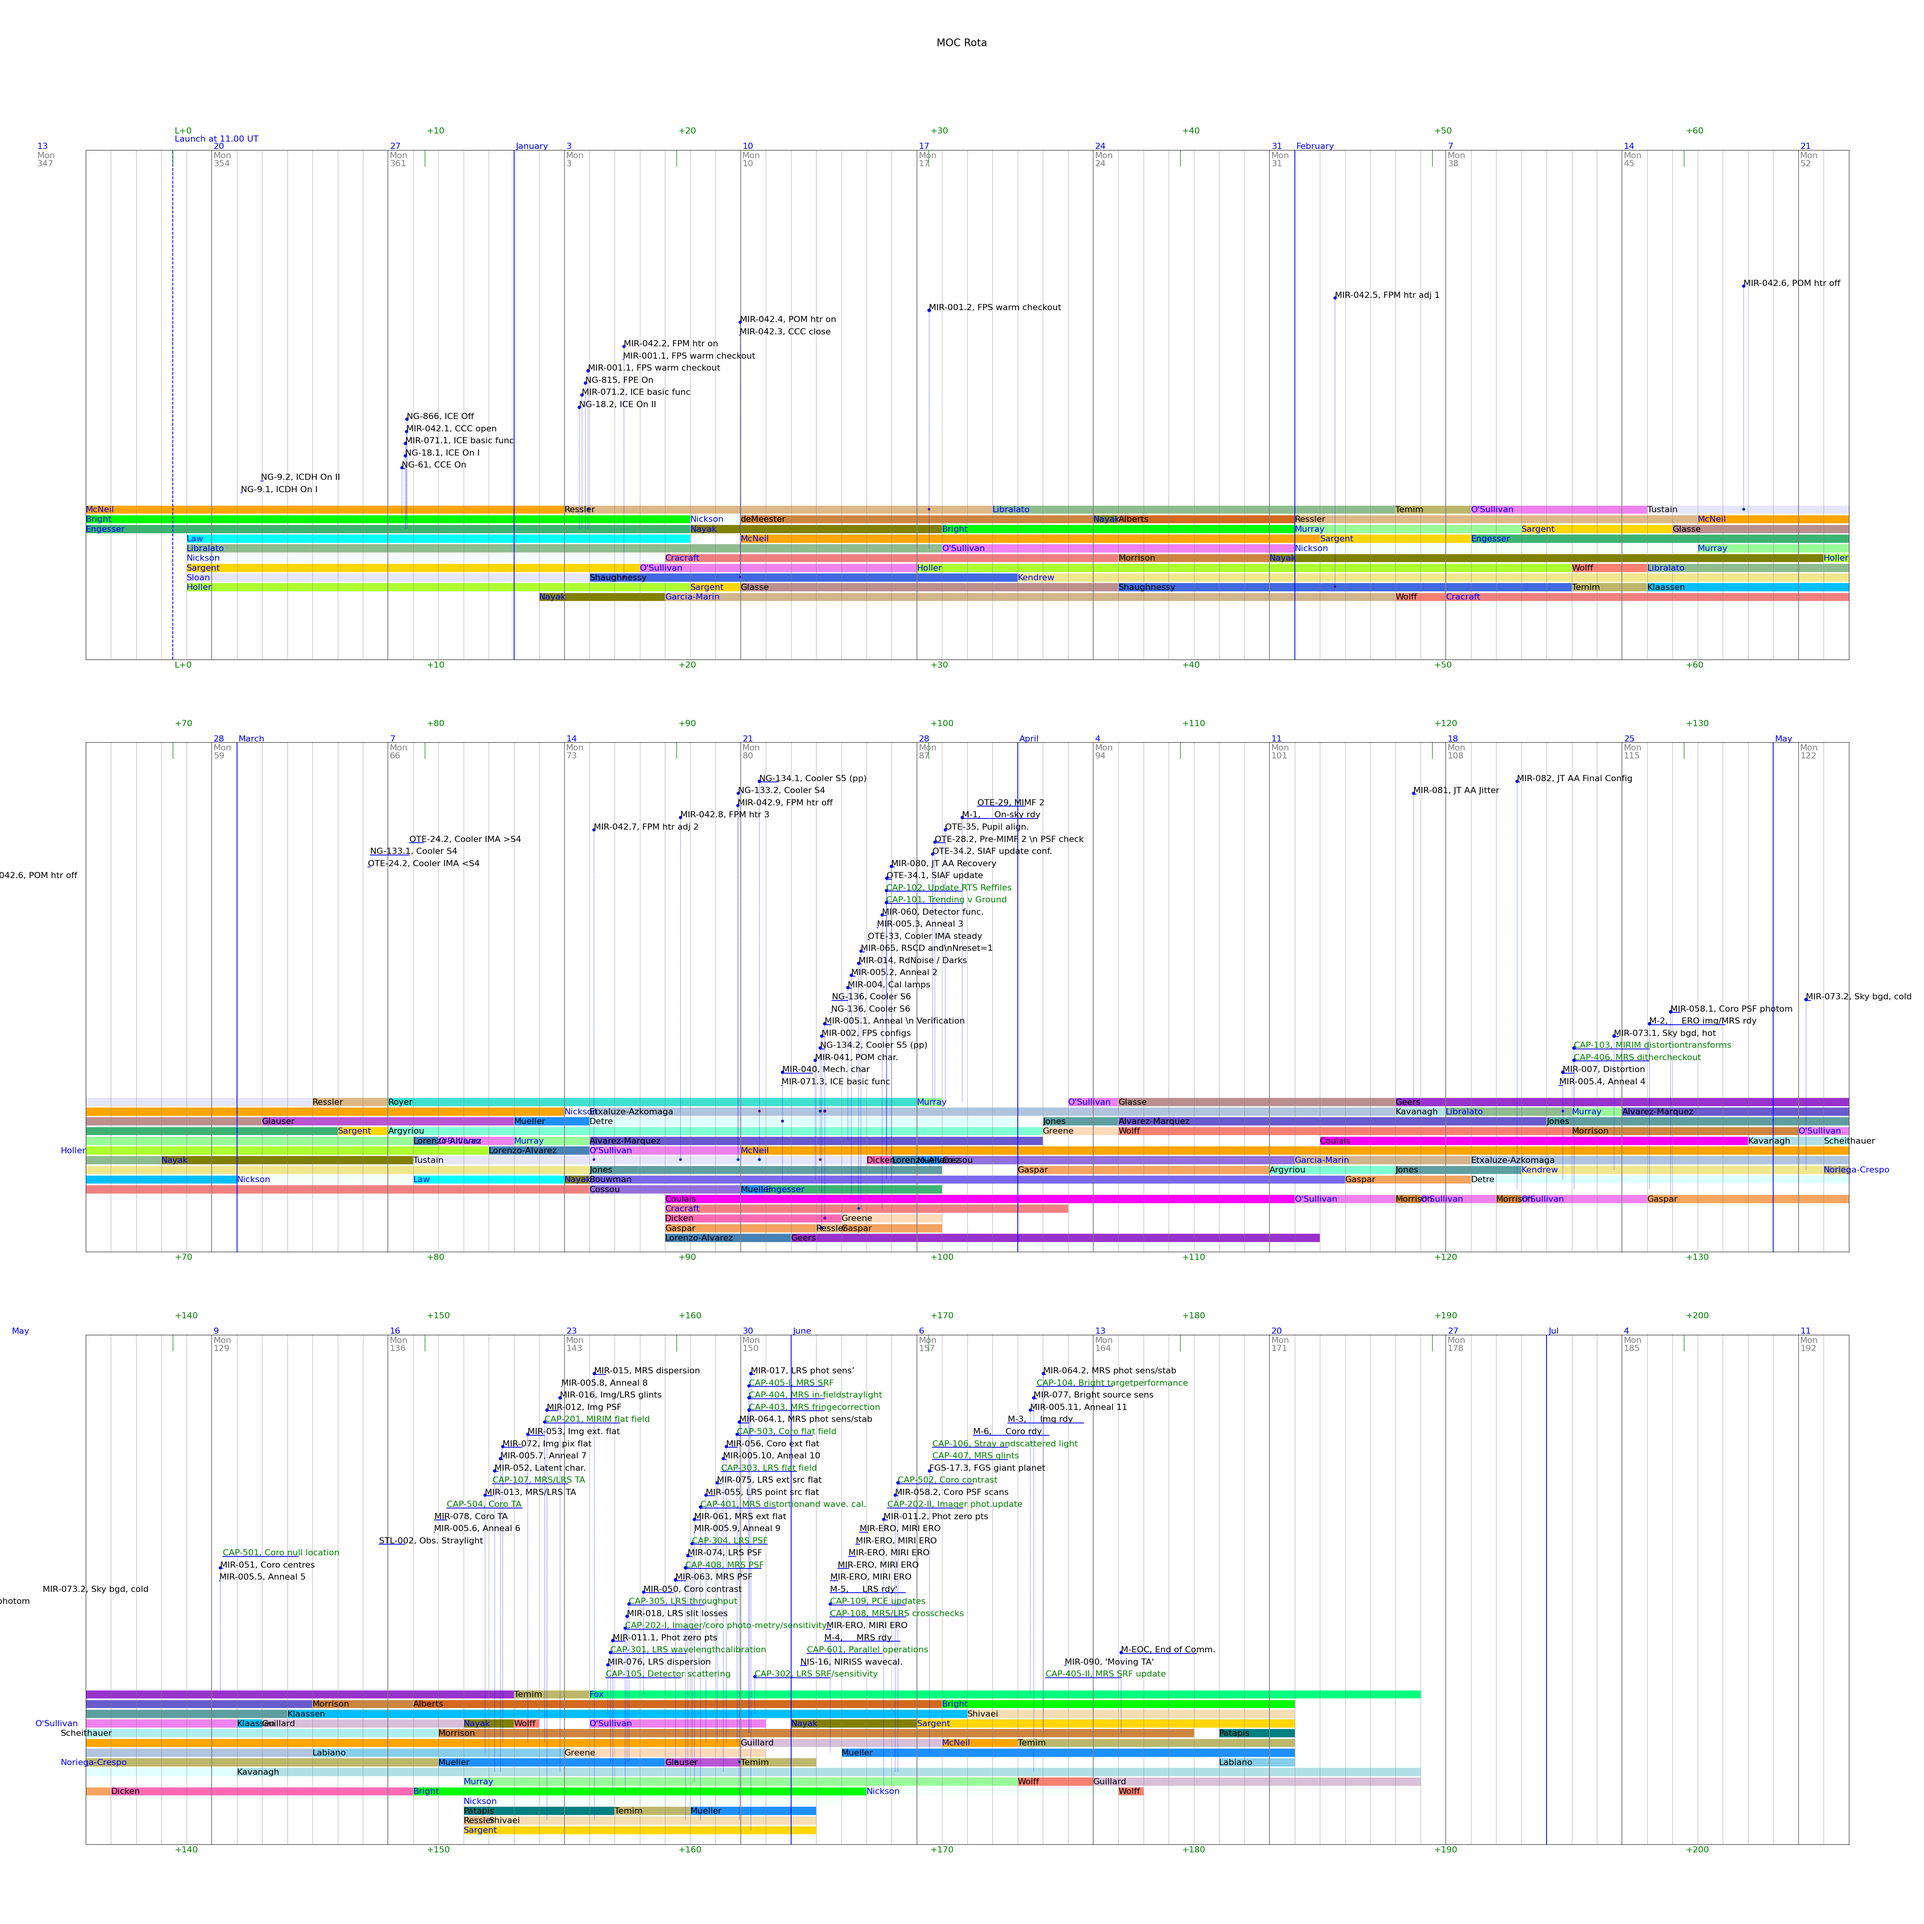
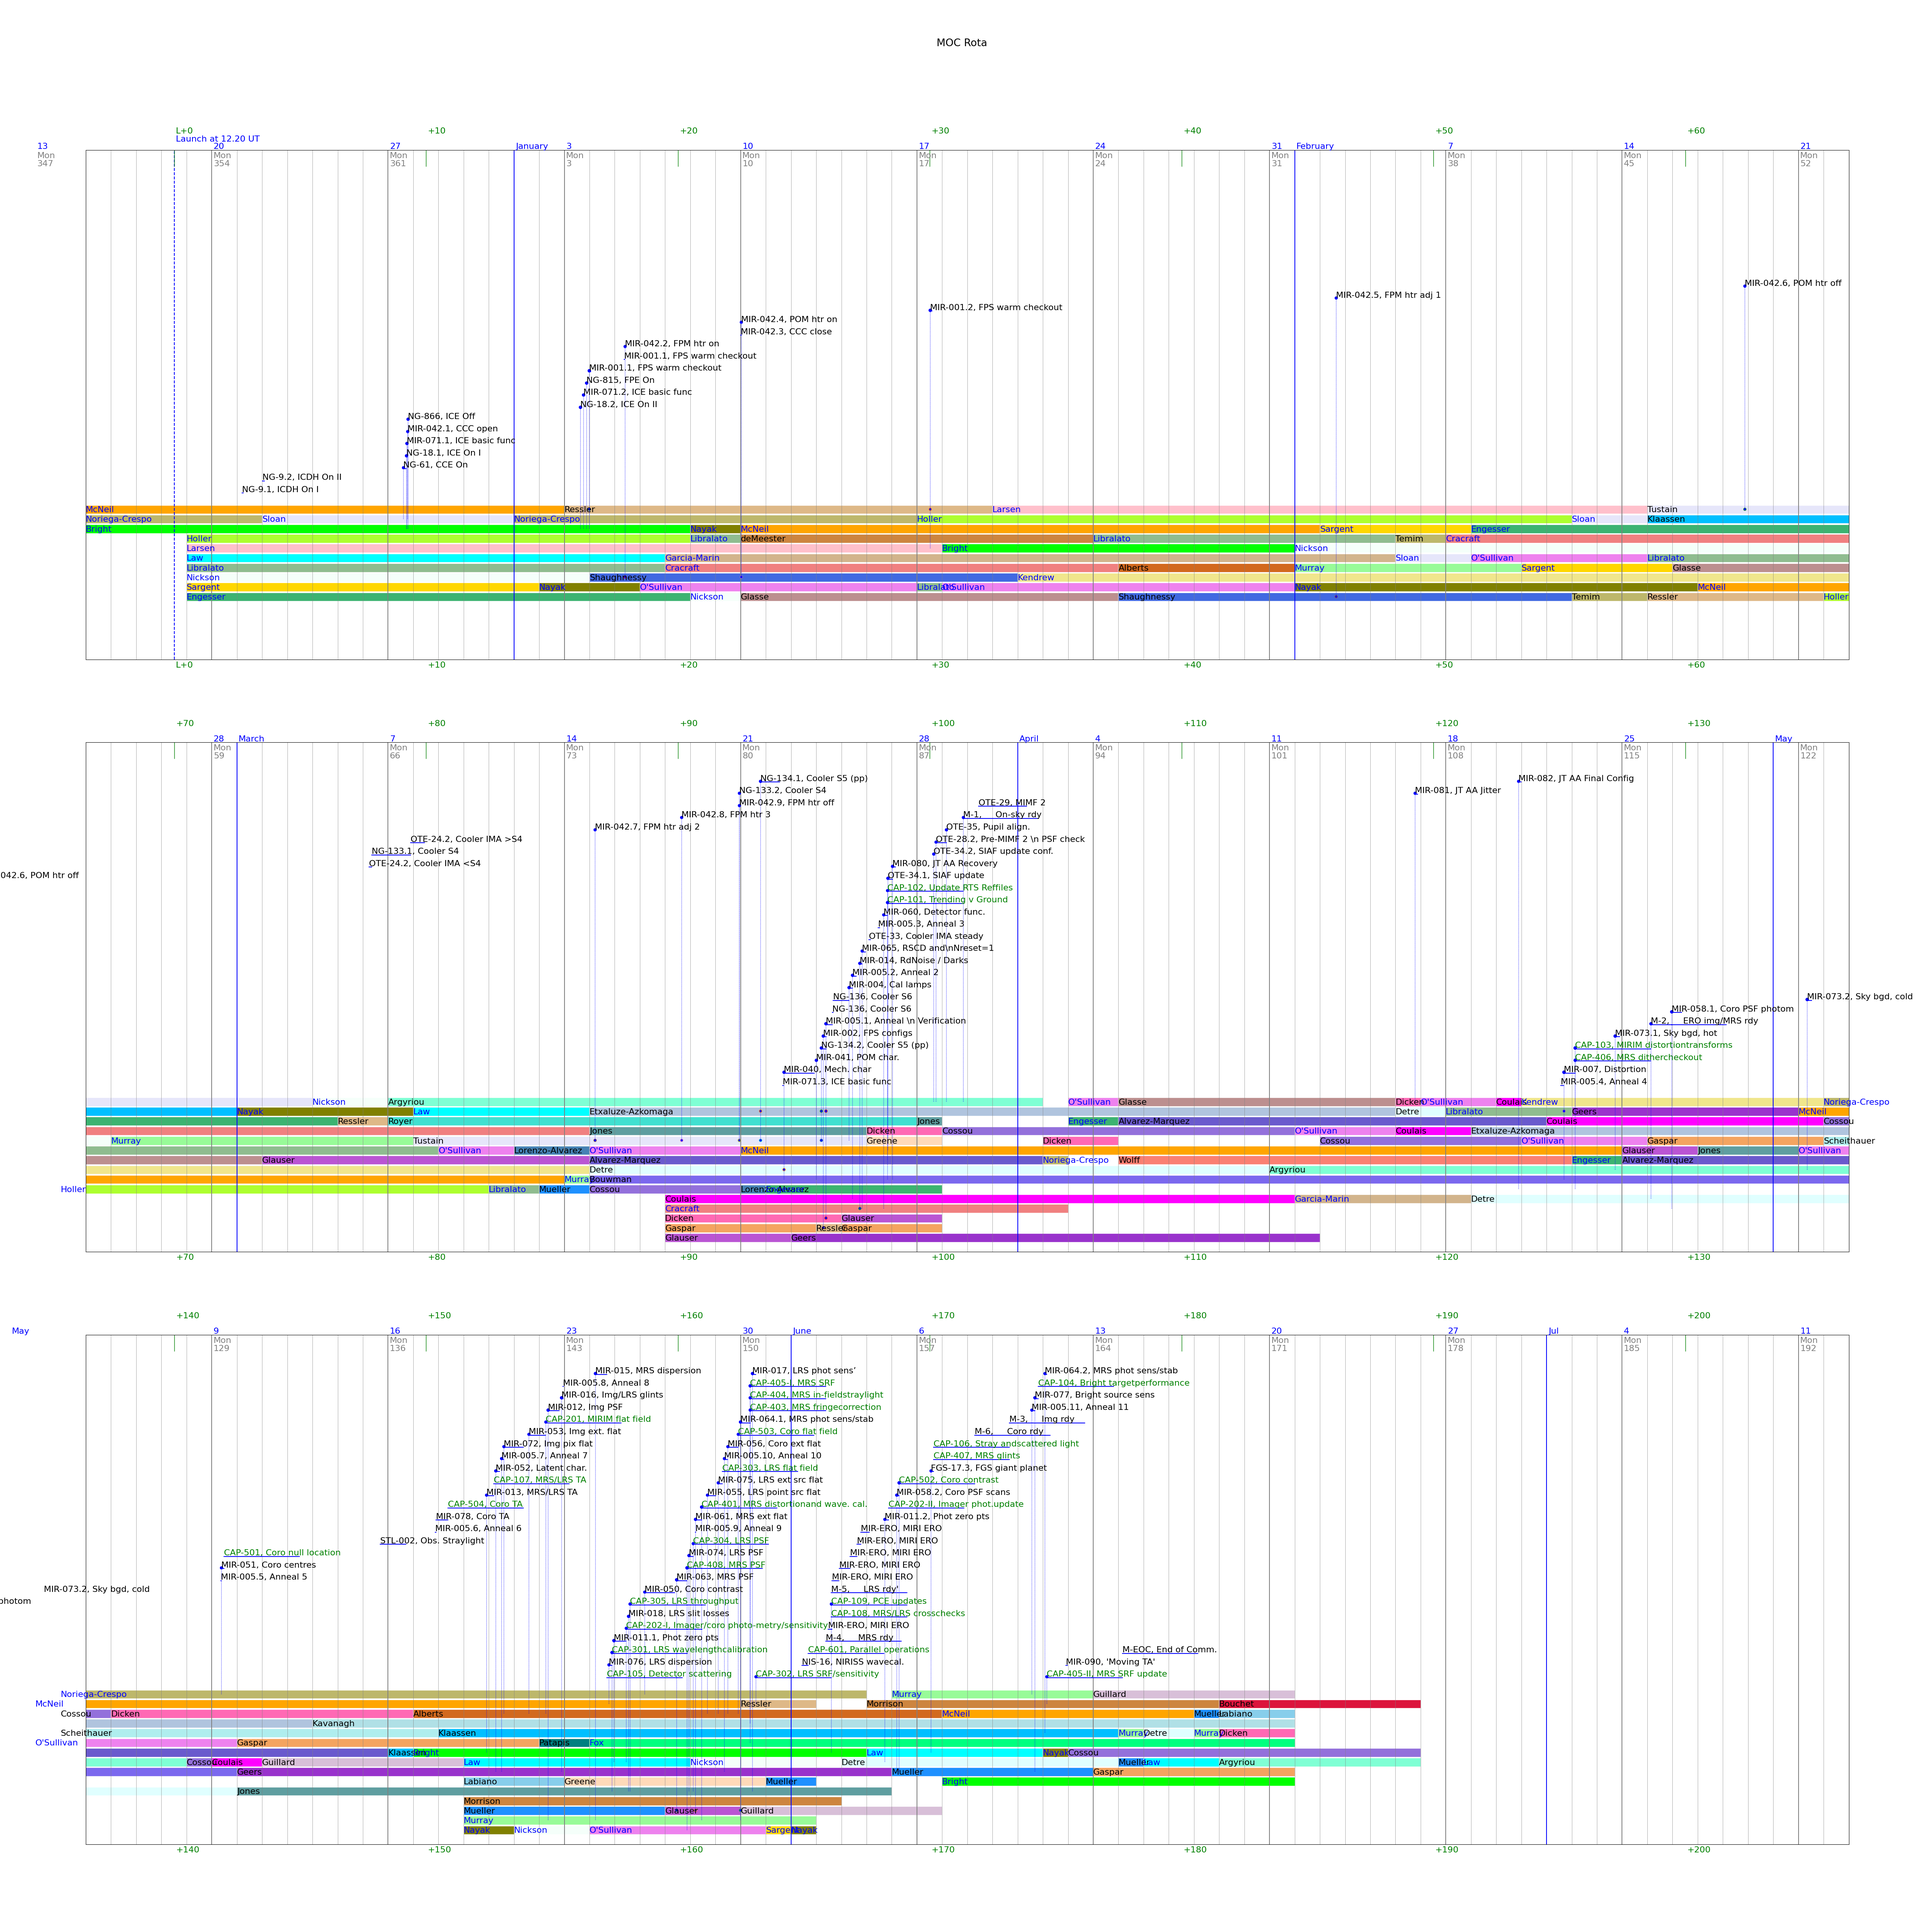
Fixed staff schedule to include analysis for duration of CAPs. Included Kirsten Larson in plan.

diff --git a/source/person.py b/source/person.py
@@ -66,14 +66,13 @@ class Person:
 
     def _get_allocated(self):
         """ Find the number of days currently allocated to this person to be available
-        in Baltimore. This includes rest days, but excludes blackout days.
+        on console.
         """
         tt = self.timetable
         n_total = len(tt)
-        n_free = len(np.where(tt == self.role_free)[0])
-        n_blackout = len(np.where(tt == self.blackout)[0])
-        n_greyout = len(np.where(tt == self.greyout)[0])
-        n_allocated = n_total - (n_free + n_blackout + n_greyout)
+        n_console = len(np.where(tt == self.role_console)[0])
+        n_sme_console = len(np.where(tt == self.role_sme_console)[0])
+        n_allocated = n_sme_console + n_console
         return n_allocated
 
     def _find_free_slot(self, rota, col, n_slots):
@@ -107,12 +106,12 @@ class Person:
         or Friday to help with badging and travel.
         """
         daily_slots = ShiftPlan.daily_slot_quota
-        car_day = int(task.t_start + ShiftPlan.launchhour/24.0)
-        car_col = car_day - ShiftPlan.start_md
-        start_col = car_col - self.arrival_buffer            # start_md - ShiftPlan.start_day
-        end_col = car_col + self.departure_buffer
+        task_day = int(task.t_start + ShiftPlan.launchhour/24.0)
+        task_col = task_day - ShiftPlan.start_md
+        start_col = task_col - self.arrival_buffer            # start_md - ShiftPlan.start_day
+        end_col = int(task_col + task.t_dur)                         #self.departure_buffer
         if task.type == 'KDP':
-            start_col, end_col = car_col, car_col
+            start_col, end_col = task_col, task_col
 
         for col in range(start_col, end_col + 1):
             n_slots = daily_slots[col]
@@ -139,7 +138,7 @@ class Person:
                             if task.type == 'KDP':              # Prioritise over MOC activities.
                                 role = Person.role_kdp
                             else:
-                                if col == car_col:
+                                if col == task_col:
                                     role = Person.role_sme_analyst
                                 else:
                                     role = Person.role_analyst
@@ -152,18 +151,18 @@ class Person:
                     else:   # Its a CAR. May support as an SME analyst (not in rota)
                         if requested_role == 'A':
                             role = Person.role_analyst
-                            if col == car_col:
+                            if col == task_col:
                                 role = Person.role_sme_analyst
                             if is_moc or is_sme_moc:            # Currently assigned to be in MOC
                                 rota = self._remove_from_rota(rota, col)
                         else:   # Requested role is in MOC
                             if is_moc or is_sme_moc:            # Already allocated in MOC
-                                role = Person.role_sme_console if col == car_col else Person.role_console
+                                role = Person.role_sme_console if col == task_col else Person.role_console
                             else:
                                 role = Person.role_console      # Default role for CARs
                                 row = self._find_free_slot(rota, col, n_slots)  # Find free slot in rota
                                 if row is not None:
-                                    if col == car_col:
+                                    if col == task_col:
                                         role = Person.role_sme_console
                                     rota[row, col] = self       # Allocate CARs on rota.
                 self.timetable[col] = role                      # Allocate all tasks in personal timetable
@@ -201,8 +200,6 @@ class Person:
                     if row is not None:
                         rota[row, col] = self
                         self.timetable[col] = Person.role_console
-        if self.surname == 'Murray':
-            nob = 1
         return rota
 
     @staticmethod

diff --git a/source/shift_plan.py b/source/shift_plan.py
@@ -17,7 +17,7 @@ class ShiftPlan:
     """
     month_names = ['January', 'February', 'March', 'April', 'May', 'June',
                    'Jul', 'Aug', 'Sep', 'Oct', 'November', 'December']
-    launchyear, launchmonth, launchdate, launchhour = 2021, 12, 18, 11.00
+    launchyear, launchmonth, launchdate, launchhour = 2021, 12, 18, 12.20
     launchdate_last_monday = 13             # Date of month of the last Monday before launch
     start_md, end_md = -3, 190
     n_days = end_md - start_md + 1

diff --git a/source/timeliner.py b/source/timeliner.py
@@ -64,7 +64,7 @@ a_rota = ShiftPlan.build_analysis_rota()
 a_rota = ShiftPlan.tidy_rota(a_rota)
 ShiftPlan.plot_rota(a_rota, 'analysis_rota', is_analysis=True)
 
-ShiftPlan.plot_staff_schedules(name='staff_schedule.png', show_greyout=False)
+ShiftPlan.plot_staff_schedules(name='staff_schedule.png', show_greyout=True)
 ShiftPlan.plot_rota(rota, 'moc_rota')
 
 
